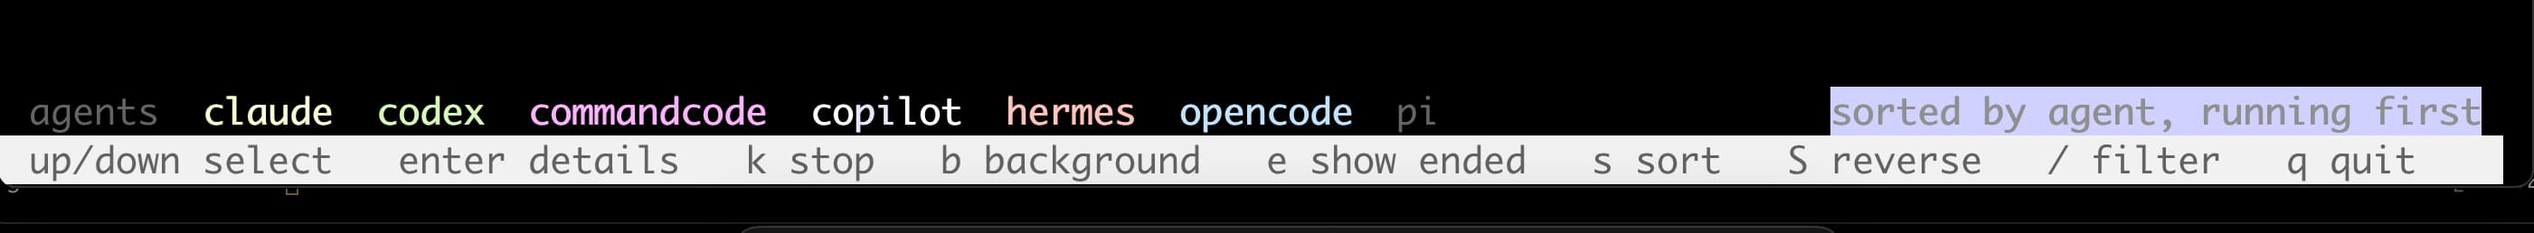
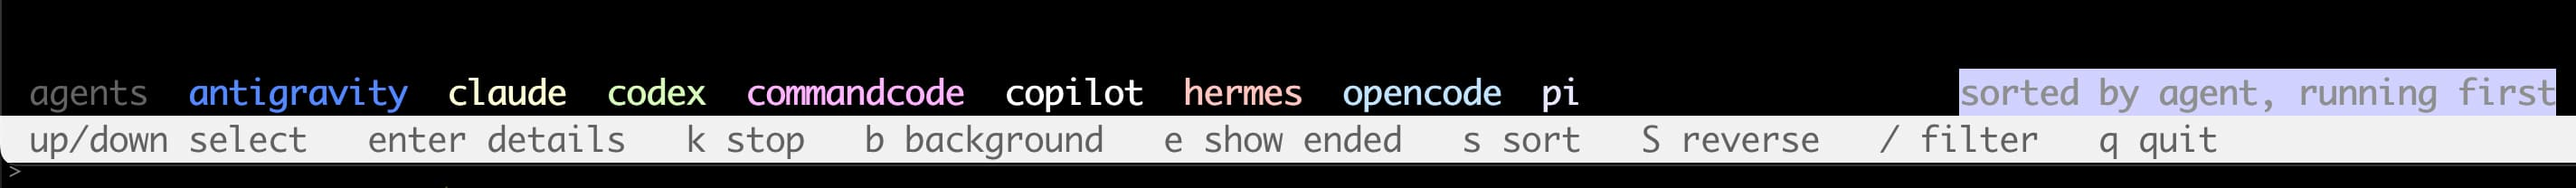
Release 0.4.0
Antigravity is the eighth agent, and the legend that names them was
painting two letters of one name in another's colour.

Changed region(s): [[0.0, 0.0, 1.0, 0.8942], [0.0, 0.9519, 1.0, 0.9808]]

diff --git a/agent_ps/backends/antigravity.py b/agent_ps/backends/antigravity.py
@@ -1,0 +1,107 @@
+"""Antigravity, the `agy` CLI from Google.
+
+Each conversation is its own SQLite file, but the interesting fields are inside
+protobuf blobs rather than columns, so they are pulled out by hand. Three of
+them are reachable and one is not: the step status is the same value whether a
+session is mid-turn or finished, so busy and idle cannot be told apart.
+
+The workspace, the opening request and the model each live in a different blob,
+and the choice of which blob matters more than it looks. Reading the model from
+the large prompt blob finds whatever the agent was reading at the time, which in
+a repository that mentions another agent is that agent's name.
+"""
+
+import glob
+import os
+import re
+import sqlite3
+
+from .base import Backend, prompt_title
+
+#: Model names carry a version number. A bare vendor word is something the
+#: session was reading, not the model that answered.
+MODEL = re.compile(rb"\b((?:gemini|gpt|claude|grok)[a-z0-9.\-]*\d[a-z0-9.\-]*)\b", re.I)
+REQUEST = re.compile(rb"<USER_REQUEST>\s*(.{1,400}?)\s*</USER_REQUEST>", re.S)
+
+
+class AntigravityBackend(Backend):
+    name = "antigravity"
+    root = os.path.expanduser(
+        os.environ.get("ANTIGRAVITY_HOME", "~/.gemini/antigravity-cli"))
+    session_glob = "conversations/*.db"
+    process_patterns = ("agy",)
+    resume_binary = "agy"
+    resume_flag = "--conversation"
+
+    def session_id(self, path):
+        return os.path.basename(path)[:-len(".db")]
+
+    def extract(self, reader):
+        try:
+            db = sqlite3.connect(f"file:{reader.path}?mode=ro", uri=True, timeout=1.0)
+        except sqlite3.Error:
+            return {}
+        try:
+            return {
+                "cwd": self._workspace(db),
+                "title": self._request(db),
+                "model": self._model(db),
+            }
+        except sqlite3.Error:
+            return {}
+        finally:
+            db.close()
+
+    @staticmethod
+    def _blobs(db, table, column="data"):
+        try:
+            for (blob,) in db.execute(f"SELECT {column} FROM {table}"):
+                if blob:
+                    yield bytes(blob)
+        except sqlite3.Error:
+            return
+
+    def _workspace(self, db):
+        for raw in self._blobs(db, "trajectory_metadata_blob"):
+            for uri in _strings(raw, b"file://"):
+                if uri.startswith("file://"):
+                    return uri[len("file://"):]
+        return ""
+
+    def _request(self, db):
+        for raw in self._blobs(db, "gen_metadata"):
+            found = REQUEST.search(raw)
+            if found:
+                title = prompt_title(found.group(1).decode("utf8", "ignore"))
+                if title:
+                    return title
+        return ""
+
+    def _model(self, db):
+        for raw in self._blobs(db, "executor_metadata"):
+            for name in MODEL.findall(raw):
+                return name.decode("utf8", "ignore")
+        return ""
+
+    def disk_paths(self, session_id, path):
+        return [("conversation", path)]
+
+
+def _strings(raw, prefix):
+    """Length prefixed strings starting with `prefix`, read out of a protobuf.
+
+    Protobuf writes a field tag, then the length, then the bytes, with nothing
+    to mark the end. Reading the length is what stops the next field's tag being
+    swept up as a trailing character.
+    """
+    found = []
+    start = 0
+    while True:
+        at = raw.find(prefix, start)
+        if at < 0:
+            return found
+        start = at + 1
+        if at >= 2 and raw[at - 2] == 0x0A:  # field 1, length delimited
+            size = raw[at - 1]
+            if size < 0x80 and at + size <= len(raw):
+                found.append(raw[at:at + size].decode("utf8", "ignore"))

diff --git a/agent_ps/ui.py b/agent_ps/ui.py
@@ -30,6 +30,12 @@ AGENT_COLOURS = (
     curses.COLOR_WHITE,
 )
 
+#: A basic terminal has only seven usable colours, and the eighth agent would
+#: have worn the first one's. A terminal offering 256 has room for more without
+#: disturbing the first seven, which people have already learned. The first of
+#: these is the blue Antigravity is branded in, since it lands on that slot.
+EXTRA_COLOURS = (69, 208, 141, 84, 173, 205)
+
 
 def agent_label(row):
     """Agent name, with the sort of process appended when it is not a session."""
@@ -100,6 +106,14 @@ COLUMNS = [
     ("DIR", 24, lambda r: short_path(r.get("cwd", ""), 23)),
     ("TITLE", 0, lambda r: r["title"] or "-"),
 ]
+
+
+def _agent_colour(index):
+    if index < len(AGENT_COLOURS):
+        return AGENT_COLOURS[index]
+    if curses.COLORS >= 256:
+        return EXTRA_COLOURS[(index - len(AGENT_COLOURS)) % len(EXTRA_COLOURS)]
+    return AGENT_COLOURS[index % len(AGENT_COLOURS)]
 
 
 def column_span(label):
@@ -233,7 +247,7 @@ class Tui:
         curses.init_pair(self.C_SORT, curses.COLOR_BLACK, curses.COLOR_CYAN)
         for index, name in enumerate(backends.names()):
             pair = self.C_AGENT_BASE + index
-            curses.init_pair(pair, AGENT_COLOURS[index % len(AGENT_COLOURS)], -1)
+            curses.init_pair(pair, _agent_colour(index), -1)
             self.agent_colour[name] = curses.color_pair(pair)
         self.screen.timeout(200)
 
@@ -551,7 +565,16 @@ class Tui:
         agents = sorted({r["agent"] for r in self.rows})
         if not agents:
             return
-        text = " agents  " + "  ".join(agents)
+        # Positions are recorded while the line is built rather than searched
+        # for afterwards. One agent's name can sit inside another's, and looking
+        # for "pi" in a line that also says "copilot" finds the wrong two
+        # letters and leaves the real one uncoloured.
+        text = " agents  "
+        placed = []
+        for agent in agents:
+            placed.append((len(text), agent))
+            text += agent + "  "
+        text = text.rstrip()
         self.screen.addnstr(screen_row, 0, text, width - 1, curses.A_DIM)
 
         # a long agent list leaves no room for a sentence on an 80 column
@@ -568,9 +591,8 @@ class Tui:
                                     curses.color_pair(self.C_SORT) | curses.A_BOLD)
                 break
 
-        for agent in agents:
-            at = text.find(agent)
-            if at < 0 or at >= width - 1:
+        for at, agent in placed:
+            if at >= width - 1:
                 continue
             self.screen.addnstr(screen_row, at, agent, min(len(agent), width - 1 - at),
                                 self.agent_colour.get(agent, 0) | curses.A_BOLD)

diff --git a/agent_ps/backends/__init__.py b/agent_ps/backends/__init__.py
@@ -4,6 +4,7 @@ Adding an agent means writing one class and adding it to this list. Order sets
 the order rows appear in when nothing else separates them.
 """
 
+from .antigravity import AntigravityBackend
 from .claude import ClaudeBackend
 from .codex import CodexBackend
 from .copilot import CopilotBackend
@@ -12,7 +13,7 @@ from .opencode import OpenCodeBackend
 from .pilike import CommandCodeBackend, PiBackend
 
 ALL = (ClaudeBackend, PiBackend, CommandCodeBackend, CodexBackend,
-       OpenCodeBackend, HermesBackend, CopilotBackend)
+       OpenCodeBackend, HermesBackend, CopilotBackend, AntigravityBackend)
 
 
 def available(only=None):

diff --git a/agent_ps/__init__.py b/agent_ps/__init__.py
@@ -1,3 +1,3 @@
 """agent-ps: a process table for coding agent sessions."""
 
-VERSION = "0.3.0"
+VERSION = "0.4.0"

diff --git a/README.md b/README.md
@@ -1,7 +1,7 @@
 <div align="center">
 
 <img src="https://raw.githubusercontent.com/mkhuda/agent-ps/main/images/agent-ps-screenshot.jpg" width="900"
-     alt="agent-ps listing sessions from claude, hermes, codex, opencode, pi, commandcode and copilot side by side, each with its model, uptime, idle time, cpu, memory, disk and working directory, with two hermes background helpers at the bottom">
+     alt="agent-ps listing eleven sessions across all eight agents at once, each agent named in its own colour, with columns for model, uptime, time since the last turn, cpu, memory and disk. Three antigravity sessions, two hermes background helpers, a copilot chat with no process of its own, and a busy claude session highlighted at the top.">
 
 # agent-ps
 
@@ -13,7 +13,7 @@ what a session was.**
 [![npm](https://img.shields.io/npm/v/%40mkhuda%2Fagent-ps?style=flat-square&color=blue&label=npm)](https://www.npmjs.com/package/@mkhuda/agent-ps)
 [![license](https://img.shields.io/badge/license-MIT-blue?style=flat-square)](https://github.com/mkhuda/agent-ps/blob/main/LICENSE)
 ![python](https://img.shields.io/badge/python-3.8%2B-blue?style=flat-square)
-![agents](https://img.shields.io/badge/agents-7-orange?style=flat-square)
+![agents](https://img.shields.io/badge/agents-8-orange?style=flat-square)
 ![dependencies](https://img.shields.io/badge/dependencies-none-brightgreen?style=flat-square)
 
 [Install](#install) | [Usage](#usage) | [Agents](#agents) |
@@ -124,11 +124,17 @@ legend above the keys.
 | [OpenCode](https://github.com/sst/opencode) | ![blue](https://img.shields.io/badge/-3b6fd4?style=flat-square) | SQLite | directory | yes | `opencode --session` |
 | Hermes | ![red](https://img.shields.io/badge/-c0392b?style=flat-square) | SQLite | directory | yes | `hermes --resume` |
 | GitHub Copilot | ![white](https://img.shields.io/badge/-cfd3d8?style=flat-square) | VS Code storage | no process | yes | in the editor |
+| Antigravity | ![blue](https://img.shields.io/badge/-5f87ff?style=flat-square) | SQLite per conversation | directory | no | `agy --conversation` |
 
 Only Claude Code records which process is running which session, so every other
 pairing is matched on working directory and shown as a guess. OpenCode, Hermes
 and Copilot count tokens and cost, which the detail panel shows. Agents you have
 not installed are skipped, not reported as missing.
+
+Antigravity keeps each conversation in its own database, but the fields worth
+showing are inside protobuf blobs rather than columns, so they are read out one
+at a time. Its steps carry the same status whether a turn is running or has
+finished, so it is the one agent whose busy and idle cannot be told apart.
 
 Copilot is the exception to everything. It runs inside the VS Code extension
 host, so it has no process of its own: no PID, no uptime, no CPU or memory, and
@@ -168,7 +174,7 @@ something.
 Those keys live at the bottom of the screen, under a line naming every agent on
 screen in its own colour and, on the right, what the table is sorted by:
 
-![The bottom of the screen: a legend naming each agent in its own colour, the sort shown in words on the right, and the key bar beneath it](https://raw.githubusercontent.com/mkhuda/agent-ps/main/images/agent-ps-footer-screenshot.jpg)
+![The bottom of the screen: a legend naming all eight agents, each in its own colour, the sort order spelled out on the right, and the key bar beneath it](https://raw.githubusercontent.com/mkhuda/agent-ps/main/images/agent-ps-footer-screenshot.jpg)
 
 That middle line does three jobs. It is the key to the colours in the AGENT
 column, it says the sort order in words so the marked heading is never a guess,
@@ -360,7 +366,7 @@ install fetches. The build is reproducible: the same source always produces the
 same bytes, so the committed executable can be checked against the tree.
 
 ```
-d5f2e2bd6d35e148e461c60c7cb7bd80fce272a15efb462a7dd513955ef5a2b6  agent-ps
+1a44868de812f5d0d2ac012ec97d610a34bca21884f718c7a8dffae80fb05ee6  agent-ps
 ```
 
 Adding an agent takes one class and one line in the registry. See

diff --git a/docs/internals.md b/docs/internals.md
@@ -14,6 +14,7 @@ Reference for the parts of the table that are not obvious. The
 | OpenCode | `~/.local/share/opencode/opencode.db` | `OPENCODE_DATA` |
 | Hermes | `~/.hermes/state.db` | `HERMES_HOME` |
 | GitHub Copilot | `~/Library/Application Support/Code/User/workspaceStorage/` | `VSCODE_USER_DIR` |
+| Antigravity | `~/.gemini/antigravity-cli/conversations/` | `ANTIGRAVITY_HOME` |
 
 `agent-ps agents` prints which of these exist on your machine and how many
 sessions each holds.
@@ -38,6 +39,7 @@ them answer it outright:
 | OpenCode | the newest message, which carries a `finish` reason once its turn is over |
 | Hermes | the newest message, which carries a finish reason the same way |
 | GitHub Copilot | the last turn's `modelState`, which records when it completed |
+| Antigravity | nothing does. Its steps carry the same status whether a turn is running or finished, so the column stays a dash |
 
 The inferred ones can get stuck. A turn keeps appending as it works, so a
 session that still looks busy after fifteen minutes of silence is reported idle
@@ -94,6 +96,7 @@ DISK column adds up everything one session left behind:
 | OpenCode | its messages and parts in the database |
 | Hermes | its messages in the database, and one request dump per turn |
 | GitHub Copilot | the chat journal and its editing session |
+| Antigravity | the conversation database |
 
 The last few are worth knowing about. A Codex shell snapshot runs to a few
 hundred kilobytes and is routinely larger than the transcript it belongs to, and

diff --git a/CHANGELOG.md b/CHANGELOG.md
@@ -1,5 +1,26 @@
 # Changelog
 
+## 0.4.0
+
+Antigravity, and a legend that was lying about one of the colours.
+
+- Google's `agy` is the eighth agent. Each conversation is its own SQLite file,
+  but the fields worth showing sit inside protobuf blobs rather than columns, so
+  they are read out one at a time: the workspace by its length prefix, the
+  opening request from its tags, and the model from the small metadata blob
+  rather than the large one, which also holds whatever the session was reading
+  and will happily hand back another agent's name.
+- Its steps carry the same status whether a turn is running or finished, so it
+  is the one agent whose busy and idle cannot be told apart. That column stays a
+  dash rather than guessing at it.
+- The legend coloured the wrong letters. It found each agent by searching the
+  line it had just built, and `copilot` contains `pi`, so two letters in the
+  middle of one name were painted in another's colour while the real `pi` was
+  left with none. Positions are recorded while the line is composed now.
+- An eighth agent had nowhere to go: a basic terminal has seven usable colours
+  and the new one would have worn the first one's. Terminals offering 256 now
+  draw from a wider palette without disturbing the seven already learned.
+
 ## 0.3.0
 
 The detail panel earns its screen.

diff --git a/CONTRIBUTING.md b/CONTRIBUTING.md
@@ -23,6 +23,7 @@ agent_ps/
     opencode.py    SQLite, with the old JSON tree as a fallback
     hermes.py      SQLite, and a gateway that outlives its sessions
     copilot.py     no process at all, and a journal that must be replayed
+    antigravity.py protobuf blobs inside a database, read field by field
 ```
 
 Most agents keep one JSONL log per session, so that is the default. A backend
